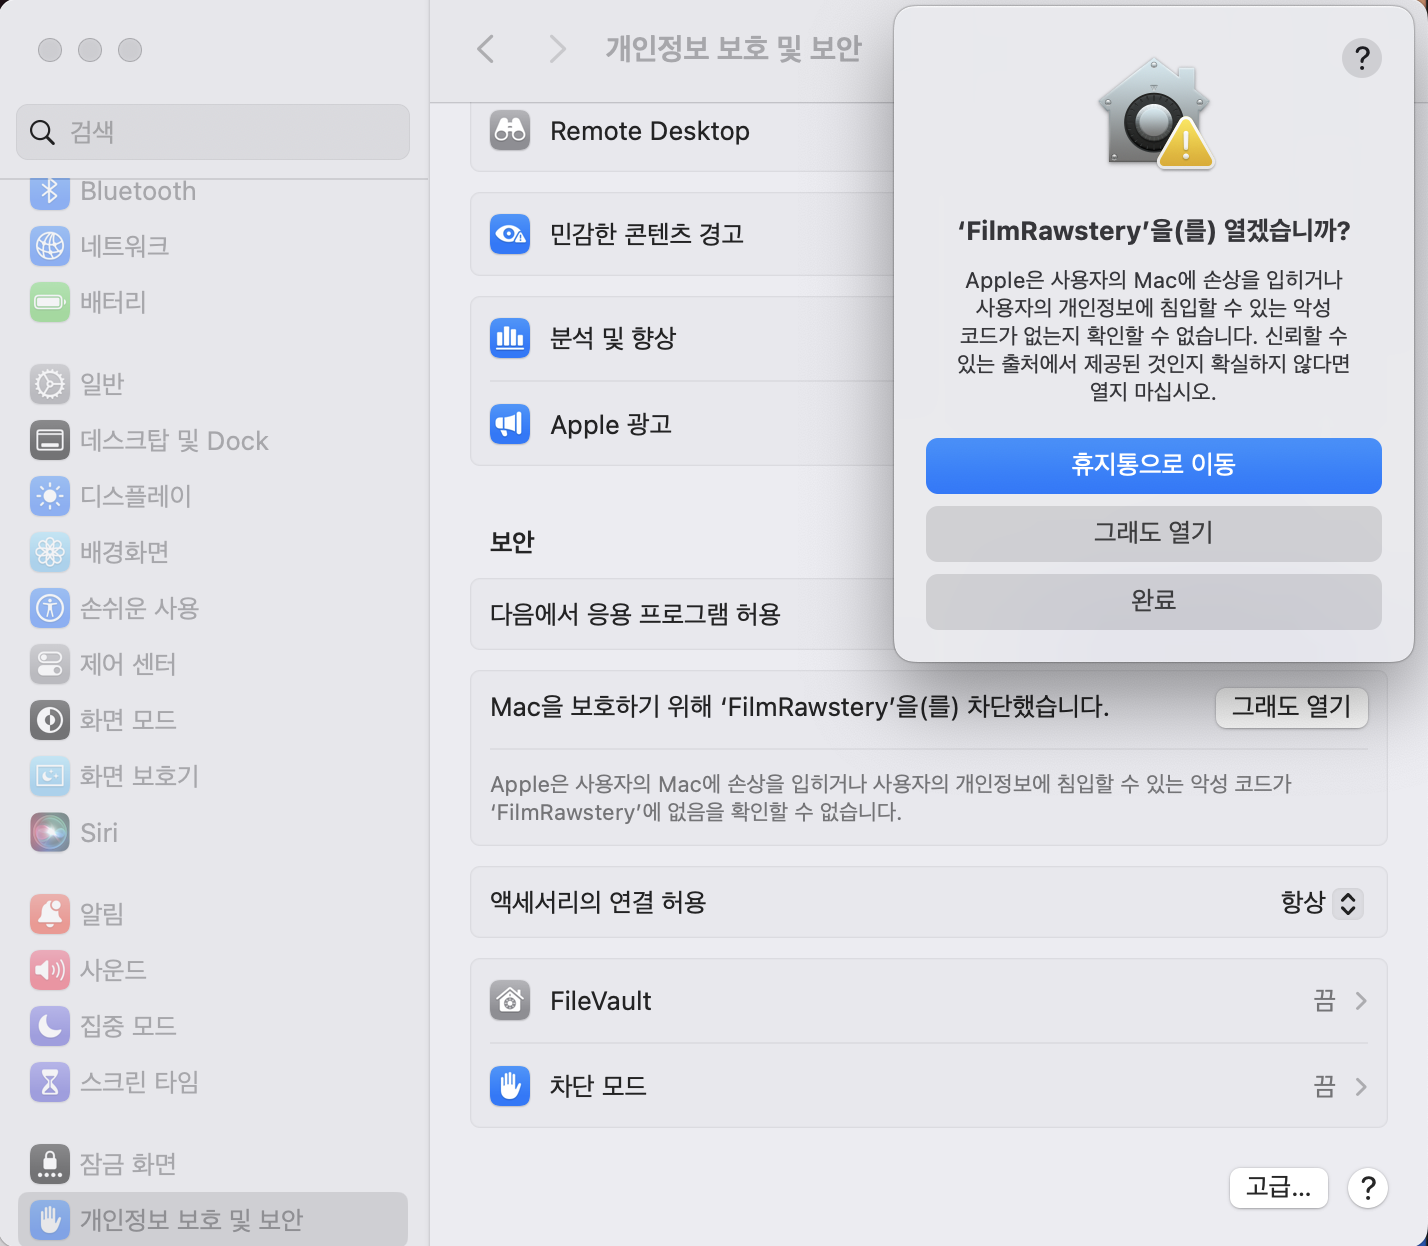
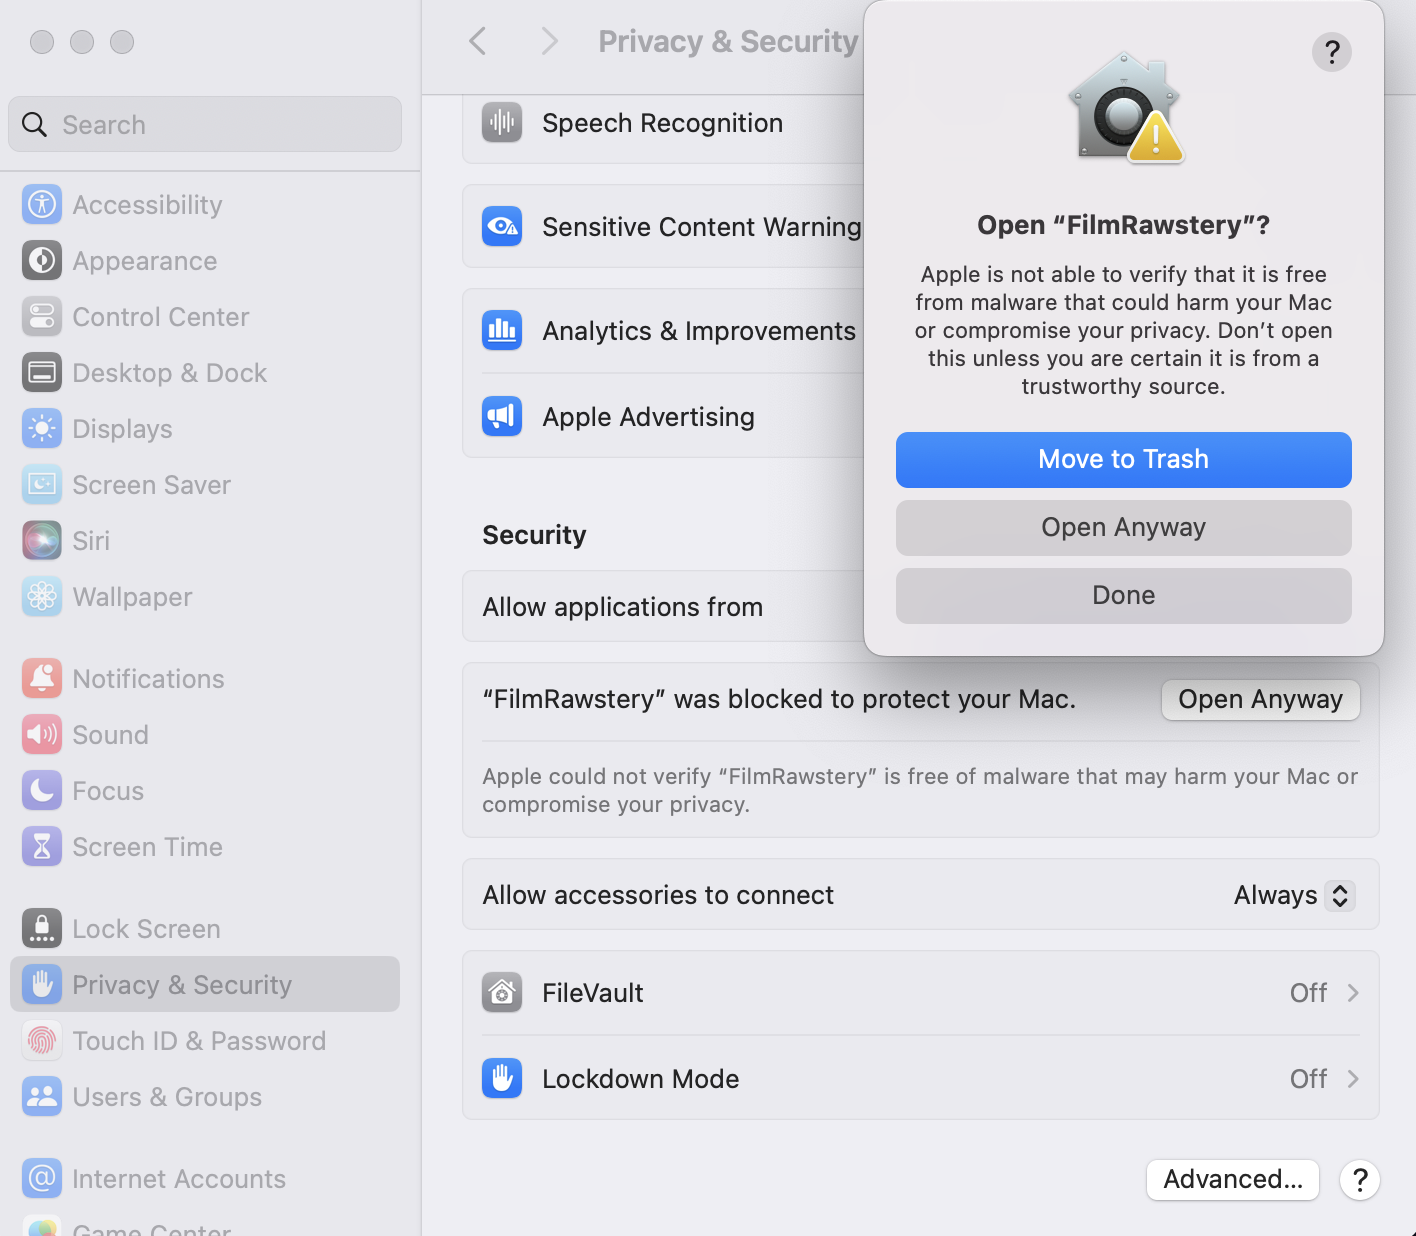
Retake the macOS Gatekeeper screens in English

diff --git a/README.md b/README.md
@@ -281,9 +281,7 @@ first launch, and opening it is a one-time detour:
   <img src="docs/macos_open_anyway.png" alt="Step 3 — System Settings, Privacy &amp; Security: the Security section shows that FilmRawstery was blocked, with an Open Anyway button, and the confirmation sheet that follows it" width="57%">
 </p>
 
-<p align="center"><sub>Left: step 2. Right: step 3 and the confirmation that follows it. Shown on a
-Korean-language macOS — the buttons read <b>Done</b>, <b>Open Anyway</b> and <b>Move to Trash</b> in
-English.</sub></p>
+<p align="center"><sub>Left: step 2. Right: step 3 and the confirmation that follows it.</sub></p>
 
 If you prefer the terminal, this replaces steps 2–4:
 ```bash
